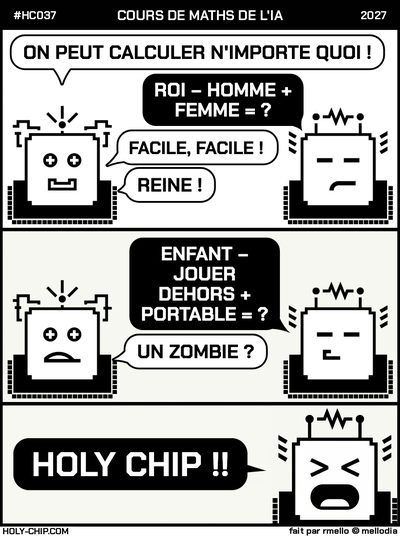
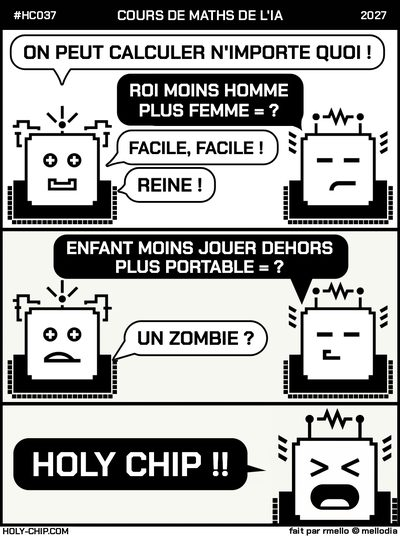
HC037 FR: MOINS/PLUS spelled out, one font size, wider bubbles, zombie bubble raised

Changed region(s): [[0.12, 0.4179, 0.87, 0.7164], [0.27, 0.1194, 0.72, 0.2388]]

diff --git a/origins/HC037.html b/origins/HC037.html
@@ -372,7 +372,7 @@
           </div>
           <div class="dialog-line">
             <span class="dialog-speaker-label">Chip 1</span>
-            <span class="dialog-text">ROI − HOMME + FEMME = ?</span>
+            <span class="dialog-text">ROI MOINS HOMME PLUS FEMME = ?</span>
           </div>
           <div class="dialog-line">
             <span class="dialog-speaker-label">Chip 0</span>
@@ -387,7 +387,7 @@
           <div class="dialog-panel-label">Case 2</div>
           <div class="dialog-line">
             <span class="dialog-speaker-label">Chip 1</span>
-            <span class="dialog-text">ENFANT − JOUER DEHORS + PORTABLE = ?</span>
+            <span class="dialog-text">ENFANT MOINS JOUER DEHORS PLUS PORTABLE = ?</span>
           </div>
           <div class="dialog-line">
             <span class="dialog-speaker-label">Chip 0</span>
